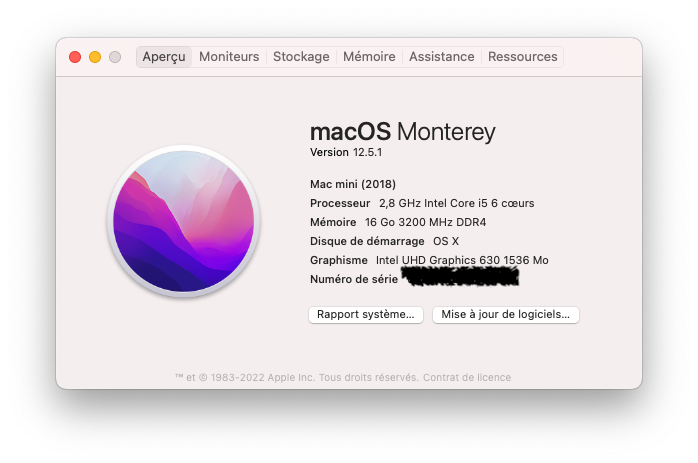
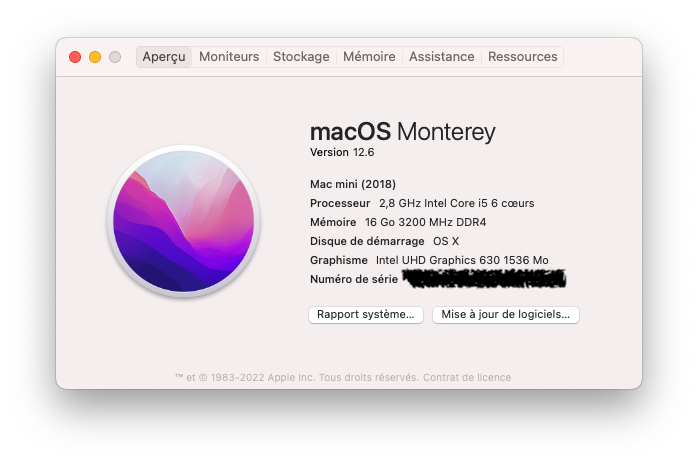
Upgrade macOS to 12.6

Changed region(s): [[0.5716, 0.5745, 0.8123, 0.635]]

diff --git a/README.md b/README.md
@@ -1,6 +1,6 @@
 # Hackintosh
 
-A Hackintosh running macOS Monterey 12.5.1 with a i5-8400 and a Gigabyte Z370-HD3P.
+A Hackintosh running macOS Monterey 12.6 with a i5-8400 and a Gigabyte Z370-HD3P.
 
 ![System spec](Pictures/system.png)
 
@@ -39,7 +39,7 @@ If you're curious, I changed two things in my `config.plist` to fix Catalina:
 
 I built my Hackintosh because I was disappointed with the price of the new Mac Mini 2018. Its configuration is close to the new mid-entry Mac Mini but with more RAM (16 instead of 8 Gb). Here are the specs:
 
-- macOS Monterey 12.5.1
+- macOS Monterey 12.6
 - Intel i5-8400 (6 cores @ 2.80 Ghz, 3.80 Ghz Turbo Boost)
 - Gigabyte Z370-HD3P
 - Corsair Vengeance LPX 16Gb (2x8Gb) DDR4 2666MHz OC @ 3200 Mhz (CMK16GX4M2A2666C16)
